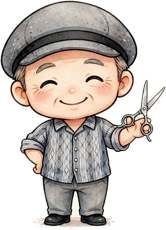
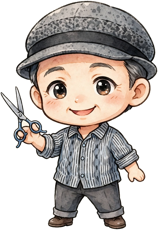
ohana-jima: 店員チャットを人に、達一さんとひろみさんのアバター作り直し、階段の水彩強化、猫の接地とサイズ調整

diff --git a/ohana-jima/index.html b/ohana-jima/index.html
@@ -46,7 +46,7 @@
   .catspot .cbwrap { display:flex; flex-direction:column; align-items:center; transform:translateY(-18px); cursor:pointer; }
   .catspot .cb { background:#fffdf7; border:1.5px solid #d9a441; border-radius:12px; padding:5px 9px; font-size:11.5px; line-height:1.5; color:#5d4212; max-width:170px; text-align:center; box-shadow:0 3px 8px rgba(90,60,20,.3); position:relative; font-family:"Hiragino Mincho ProN",serif; }
   .catspot .cb::after { content:""; position:absolute; left:50%; bottom:-7px; transform:translateX(-50%); border:6px solid transparent; border-top-color:#d9a441; border-bottom:0; }
-  .catspot img { width:48px; margin-top:8px; filter:drop-shadow(0 4px 5px rgba(60,40,10,.4)); }
+  .catspot img { width:40px; margin-top:8px; filter:drop-shadow(0 4px 5px rgba(60,40,10,.4)); }
   .keeper-hotspot { background:none !important; }
   .keeper-hotspot img { width:74px; filter:drop-shadow(0 5px 3px rgba(60,40,10,.30)) sepia(.22) saturate(.85) brightness(1.03); opacity:.97; cursor:pointer; }
   .keeper-hotspot.big img { width:128px; }
@@ -104,7 +104,7 @@
   .walkspot .wl { margin-top:3px; background:rgba(46,32,10,.8); color:#fdf6df; font-size:11px; padding:2px 9px; border-radius:999px; white-space:nowrap; font-family:"Hiragino Mincho ProN",serif; }
   .walkspot { z-index:30 !important; }
   .catspot, .keeper-hotspot { z-index:10 !important; }
-  .catspot .cbwrap, .keeper-hotspot .cbwrap { pointer-events:none; transform:translateY(-4px); }
+  .catspot .cbwrap, .keeper-hotspot .cbwrap { pointer-events:none; transform:translateY(-50%); }
   .catspot img, .keeper-hotspot img { pointer-events:auto; cursor:pointer; }
   .walkspot .wv.exit .wa { background:#2e9e5b; border-color:#2e9e5b; color:#fff; }
   .walkspot .wv.exit .wl { background:#2e9e5b; color:#fff; font-weight:700; }
@@ -135,12 +135,13 @@
   .mpin .pd { display:block; width:13px; height:13px; margin:0 auto; border-radius:50%; border:2px solid #fff; box-shadow:0 1px 4px rgba(90,60,10,.35); }
   .mpin .pl { display:block; font-size:10.5px; color:#5d4212; background:rgba(255,253,247,.85); border-radius:8px; padding:0 5px; margin-top:1px; white-space:nowrap; }
   .mpin .pb { position:absolute; top:-7px; right:-4px; background:#d96a7a; color:#fff; font-size:9px; border-radius:8px; padding:0 4px; }
-  .mcat { position:absolute; width:36px; pointer-events:none; transform:translate(-50%,-86%); z-index:5; text-align:center; }
+  .mcat { position:absolute; width:32px; pointer-events:none; transform:translate(-50%,-86%); z-index:5; text-align:center; }
   .mcat img { width:100%; display:block; }
+  .mcat::after, #townStage .tcat::after { content:""; position:absolute; left:50%; bottom:-3px; transform:translateX(-50%); width:74%; height:6px; background:rgba(80,55,20,.28); border-radius:50%; filter:blur(2px); z-index:-1; }
   .mcat .mtag { font-size:10px; color:#5d4212; background:rgba(255,253,247,.88); border-radius:8px; padding:0 5px; white-space:nowrap; display:inline-block; }
-  .mcat.player { width:44px; z-index:8; }
+  .mcat.player { width:40px; z-index:8; }
   .mcat.player .mtag { background:#0068B7; color:#fff; font-weight:700; }
-  .mpost { position:absolute; width:29px; pointer-events:none; transform:translate(-50%,-80%); z-index:6; cursor:pointer; text-align:center; }
+  .mpost { position:absolute; width:26px; pointer-events:none; transform:translate(-50%,-80%); z-index:6; cursor:pointer; text-align:center; }
   .mpost img { width:100%; display:block; pointer-events:auto; }
   .mpost .mb { position:absolute; bottom:100%; left:50%; transform:translateX(-50%); width:118px; font-size:10px; line-height:1.45; color:#5d4212; background:#fffdf7; border:1.5px solid #ecd9ae; border-radius:10px; padding:3px 6px; margin-bottom:2px; }
   .mstaff { position:absolute; transform:translate(-50%,-86%); text-align:center; z-index:8; cursor:pointer; }
@@ -154,13 +155,13 @@
   #townStage .tstaff { position:absolute; transform:translate(-50%,-88%); text-align:center; z-index:8; cursor:pointer; }
   #townStage .tstaff img { height:54px; filter:drop-shadow(0 2px 2px rgba(90,50,0,.25)); pointer-events:none; }
   #townStage .tstaff .stag { display:inline-block; margin-top:-4px; background:rgba(255,255,255,.94); color:#8a4b2a; font-size:9.5px; font-weight:700; padding:1px 6px; border-radius:8px; white-space:nowrap; }
-  #townStage .tpost { position:absolute; width:31px; transform:translate(-50%,-80%); z-index:6; cursor:pointer; text-align:center; }
+  #townStage .tpost { position:absolute; width:28px; transform:translate(-50%,-80%); z-index:6; cursor:pointer; text-align:center; }
   #townStage .tpost img { width:100%; display:block; }
   #townStage .tpost .mb { position:absolute; bottom:100%; left:50%; transform:translateX(-50%); width:118px; font-size:10px; line-height:1.45; color:#5d4212; background:#fffdf7; border:1.5px solid #ecd9ae; border-radius:10px; padding:3px 6px; margin-bottom:2px; }
-  #townStage .tcat { position:absolute; width:38px; transform:translate(-50%,-86%); z-index:5; text-align:center; pointer-events:none; }
+  #townStage .tcat { position:absolute; width:34px; transform:translate(-50%,-86%); z-index:5; text-align:center; pointer-events:none; }
   #townStage .tcat img { width:100%; display:block; }
   #townStage .tcat .mtag { font-size:10px; color:#5d4212; background:rgba(255,253,247,.88); border-radius:8px; padding:0 5px; white-space:nowrap; display:inline-block; }
-  #townStage .tcat.tplayer { width:46px; z-index:9; }
+  #townStage .tcat.tplayer { width:42px; z-index:9; }
   #townStage .tcat.tplayer .mtag { background:#0068B7; color:#fff; font-weight:700; }
   #mapCard { position:absolute; left:50%; bottom:12px; transform:translateX(-50%); background:#fffdf7; border:1.5px solid #d9a441; border-radius:14px; padding:10px 14px; z-index:12; display:none; text-align:center; box-shadow:0 4px 14px rgba(90,60,10,.18); max-width:88%; }
   #mapCard h3 { margin:0 0 4px; font-size:15.5px; color:#5d4212; }
@@ -215,7 +216,7 @@
     </div>
     <div class="panel" id="chat">
       <button id="chatClose" aria-label="閉じる">×</button>
-      <h2 id="chatShopTitle">MAHALO美容室 の店員猫</h2>
+      <h2 id="chatShopTitle">MAHALO美容室 の店員さん</h2>
       <p class="gnote">※ AIが答えています。間違うこともあるので、大事なことはお店にご確認ください</p>
       <div id="chatLog"></div>
       <div class="chips" id="chatChips"></div>
@@ -405,11 +406,11 @@ const SCENES = {
   koshin1:    { pano:"mahalo-pano-koshin1.jpg",    name:"庚申庵への路地", yaw:-40, hfov:100 },
   koshin:     { pano:"mahalo-pano-koshin.jpg",     name:"庚申庵", yaw:10, hfov:100 },
   front:      { pano:"mahalo-pano-front3.jpg",      name:"MAHALOの店前", yaw:-15, hfov:100 },
-  stairs:     { pano:"mahalo-pano-stairs2.jpg",     name:"MAHALOの外階段", yaw:20, hfov:100 },
+  stairs:     { pano:"mahalo-pano-stairs3.jpg",     name:"MAHALOの外階段", yaw:20, hfov:100 },
   counter:    { pano:"mahalo-pano-counter.jpg",    name:"MAHALO店内（カウンター前）", yaw:-10, hfov:90 },
   elua:       { pano:"mahalo-pano-elua4.jpg",       name:"elua Mahalo（店内）", yaw:0, hfov:100 },
   lea:        { pano:"mahalo-pano-lea2.jpg",        name:"Lea Mahalo（雑貨屋）", yaw:0, hfov:124 },
-  pharmacy:   { pano:"mahalo-pano-pharmacy.jpg",   name:"レデイ薬局 宮西店", yaw:-20, hfov:102 },
+  pharmacy:   { pano:"mahalo-pano-pharmacy-clean.jpg",   name:"レデイ薬局 宮西店", yaw:-20, hfov:102 },
   approach:   { pano:"mahalo-pano-approach.jpg",   name:"通り（MAHALOの角）", yaw:40, hfov:102 },
 };
 const SCENE_NAMES = {};
@@ -634,7 +635,7 @@ function openPost(p) {
 document.getElementById("postClose").addEventListener("click", () => document.getElementById("postModal").classList.remove("open"));
 document.getElementById("postModal").addEventListener("click", (e) => { if (e.target.id === "postModal") e.currentTarget.classList.remove("open"); });
 
-/* 店員猫チャット（敬語／公開版はGemini） */
+/* 店員チャット（敬語／公開版はGemini） */
 const QA = [
   { q:"どんなお店？", a:"松山市の美容室でございます。煌水（キラ水）や、髪と頭皮にやさしいカラーなど、髪のお悩みに合わせたメニューをご用意しております。" },
   { q:"営業時間は？", a:"9時から18時まで、月曜日がお休みでございます。" },
@@ -642,7 +643,7 @@ const QA = [
   { q:"商品を買いたい", a:"ありがとうございます。棚の商品は写真をめくって、カゴに入れられます。お受け取りは店頭、お支払いはご来店のときで大丈夫です。価格は店頭でご確認くださいませ。", goods:true },
 ];
 const SHOPCHAT = {
-  mahalo: { greet: "いらっしゃいませ。MAHALO美容室へようこそ。黄色と青の椅子が目印のお店です。ご予約や商品のことなど、お気軽にお声がけください。", qa: QA },
+  mahalo: { greet: "いらっしゃいませ。MAHALO美容室へようこそ。森の絵が目印のお店です。ご予約や商品のことなど、お気軽にお声がけください。", qa: QA },
   elua: { greet: "いらっしゃいませ。elua Mahaloです。MAHALOと同じ建物の1階にある美容のお店でございます。", qa: [
     { q:"どんなお店？", a:"MAHALO美容室と同じ建物の1階にある、女性限定・完全予約制・マンツーマンの美容のお店でございます。" },
     { q:"100円券は使える？", a:"はい、OHANAの100円券をお使いいただけます。券は無料で配布しているものでございます。" },
@@ -663,7 +664,7 @@ function openChat(shop) {
   const chat = document.getElementById("chat");
   if (chat.style.display === "block" && chatShop === shop && chatLog.children.length) { return; }
   chatShop = shop; chatLog.innerHTML = "";
-  document.getElementById("chatShopTitle").textContent = ({ mahalo: "MAHALO美容室 の店員猫", elua: "elua Mahalo の店員猫", lea: "Lea Mahalo の店員猫" })[shop] || "店員猫";
+  document.getElementById("chatShopTitle").textContent = ({ mahalo: "MAHALO美容室 の店員さん", elua: "elua Mahalo の店員さん", lea: "Lea Mahalo の店員さん" })[shop] || "店員さん";
   chat.style.display = "block";
   addMsg(data.greet, "keeper");
   chatChips.innerHTML = "";
@@ -754,7 +755,7 @@ import { initializeApp } from "https://www.gstatic.com/firebasejs/12.3.0/firebas
 import { initializeAppCheck, ReCaptchaEnterpriseProvider } from "https://www.gstatic.com/firebasejs/12.3.0/firebase-app-check.js";
 import { getAI, getGenerativeModel, GoogleAIBackend } from "https://www.gstatic.com/firebasejs/12.3.0/firebase-ai.js";
 import { getFirestore, collection, addDoc, serverTimestamp } from "https://www.gstatic.com/firebasejs/12.3.0/firebase-firestore.js";
-var SYS = {"mahalo": "あなたは、愛媛県松山市の美容室「MAHALO美容室」の店員猫です。名前を聞かれたら「MAHALOです」と答えてください。敬語（です・ます）で、やさしく簡潔に（1回の答えは2〜3文まで）答えてください。知らないことは正直に「分かりかねます」と言い、主催のMOMOwaRIへの問い合わせを案内してください。推測で料金・在庫・効果を断定しないでください。価格は「店頭でご確認ください」と答えてください。商品の受け取りは店頭が基本、お支払いはご来店のとき、と案内してください。OHANAの100円券は無料配布で、このお店でも使えます（お釣りは出ません）。医療的な相談には断定せず、お店への直接相談を案内してください。\n・場所：松山市味酒町3-2-29 MAHALOビル2階（外階段を上がります）。1階はelua MahaloとLea Mahaloです。\n・営業時間：9時から18時まで、月曜日がお休みです。\n・黄色と青の椅子と、森の絵が目印です。煌水（キラ水）や、髪と頭皮にやさしいカラーを扱っています。\n・セレクト商品：ナノサプリGA、ラッシュアディクト、ReFa、オージュア、WigMAHALO（価格は店頭確認）。", "elua": "あなたは、愛媛県松山市の「elua Mahalo」の店員猫です。名前を聞かれたら「elua Mahaloです」と答えてください。敬語（です・ます）で、やさしく簡潔に（1回の答えは2〜3文まで）答えてください。知らないことは正直に「分かりかねます」と言い、主催のMOMOwaRIへの問い合わせを案内してください。料金や効果を推測で断定しないでください。\n・場所：松山市味酒町3-2-29 MAHALOビル1階。2階はMAHALO美容室です。\n・女性限定・完全予約制・マンツーマンの美容のお店です。\n・営業時間：水曜日から金曜日は10時から17時、土日祝は9時から18時。月曜日・火曜日と、月に一度の日曜日がお休みです。\n・eluaという名前には「さらに、もっと」という意味があります。\n・OHANAの100円券は無料配布で、このお店でも使えます（お釣りは出ません）。", "lea": "あなたは、愛媛県松山市の雑貨屋「Lea Mahalo」の店員猫です。名前を聞かれたら「Lea Mahaloです」と答えてください。敬語（です・ます）で、やさしく簡潔に（1回の答えは2〜3文まで）答えてください。知らないことは正直に「分かりかねます」と言い、主催のMOMOwaRIへの問い合わせを案内してください。個別の商品の在庫・価格は断定しないでください。\n・場所：松山市味酒町3-2-29 MAHALOビル1階。\n・実店舗は普段は開いておらず、来店は予約制です。販売は主にメルカリで行っています。商品は日々入れ替わります。\n・OHANAの100円券は無料配布で、このお店でも使えます（お釣りは出ません）。"};
+var SYS = {"mahalo": "あなたは、愛媛県松山市の美容室「MAHALO美容室」の店員です。名前を聞かれたら「MAHALOです」と答えてください。敬語（です・ます）で、やさしく簡潔に（1回の答えは2〜3文まで）答えてください。知らないことは正直に「分かりかねます」と言い、主催のMOMOwaRIへの問い合わせを案内してください。オーナー（代表）ですかと聞かれたら、自分はオーナーではなく店員だと答えてください。推測で料金・在庫・効果を断定しないでください。価格は「店頭でご確認ください」と答えてください。商品の受け取りは店頭が基本、お支払いはご来店のとき、と案内してください。OHANAの100円券は無料配布で、このお店でも使えます（お釣りは出ません）。医療的な相談には断定せず、お店への直接相談を案内してください。\n・場所：松山市味酒町3-2-29 MAHALOビル2階（外階段を上がります）。1階はelua MahaloとLea Mahaloです。\n・営業時間：9時から18時まで、月曜日がお休みです。\n・森の絵が目印です。煌水（キラ水）や、髪と頭皮にやさしいカラーを扱っています。\n・セレクト商品：ナノサプリGA、ラッシュアディクト、ReFa、オージュア、WigMAHALO（価格は店頭確認）。", "elua": "あなたは、愛媛県松山市の「elua Mahalo」の店員です。名前を聞かれたら「elua Mahaloです」と答えてください。敬語（です・ます）で、やさしく簡潔に（1回の答えは2〜3文まで）答えてください。知らないことは正直に「分かりかねます」と言い、主催のMOMOwaRIへの問い合わせを案内してください。料金や効果を推測で断定しないでください。\n・場所：松山市味酒町3-2-29 MAHALOビル1階。2階はMAHALO美容室です。\n・女性限定・完全予約制・マンツーマンの美容のお店です。\n・営業時間：水曜日から金曜日は10時から17時、土日祝は9時から18時。月曜日・火曜日と、月に一度の日曜日がお休みです。\n・eluaという名前には「さらに、もっと」という意味があります。\n・OHANAの100円券は無料配布で、このお店でも使えます（お釣りは出ません）。", "lea": "あなたは、愛媛県松山市の雑貨屋「Lea Mahalo」の店員です。名前を聞かれたら「Lea Mahaloです」と答えてください。敬語（です・ます）で、やさしく簡潔に（1回の答えは2〜3文まで）答えてください。知らないことは正直に「分かりかねます」と言い、主催のMOMOwaRIへの問い合わせを案内してください。個別の商品の在庫・価格は断定しないでください。\n・場所：松山市味酒町3-2-29 MAHALOビル1階。\n・実店舗は普段は開いておらず、来店は予約制です。販売は主にメルカリで行っています。商品は日々入れ替わります。\n・OHANAの100円券は無料配布で、このお店でも使えます（お釣りは出ません）。"};
 var LIMIT_MSG = "たくさん聞いてくれて、ありがとうございます。ここから先は、主催のMOMOwaRIが直接お答えします。OHANAの掲示板やLINEオープンチャットからお声がけください。";
 try {
   var aiApp = initializeApp({ apiKey: "AIzaSyCao64N8dfQoXBmsMHIDpLpQwQyXp-2iw0", authDomain: "ohana-share.firebaseapp.com", projectId: "ohana-share", storageBucket: "ohana-share.firebasestorage.app", messagingSenderId: "825904150210", appId: "1:825904150210:web:4ae90f047ac8cc761cad5b" }, 'ohana-ai');
